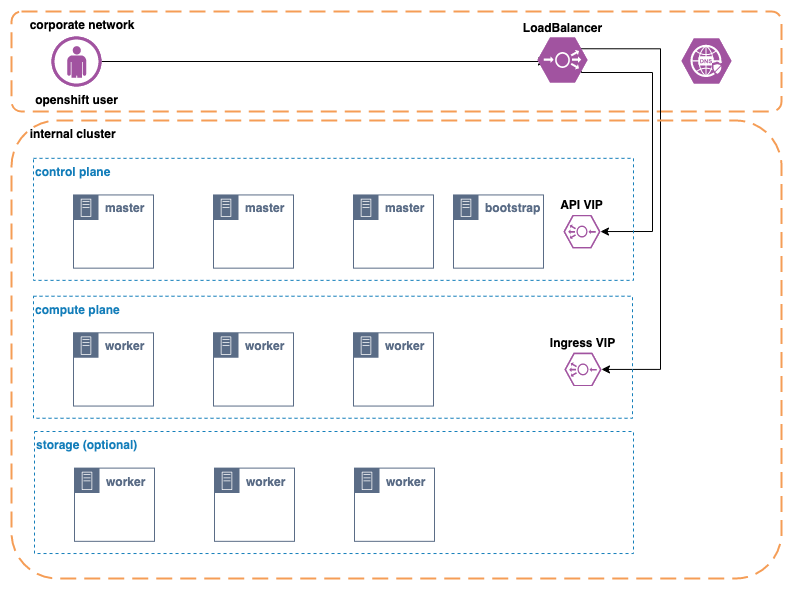
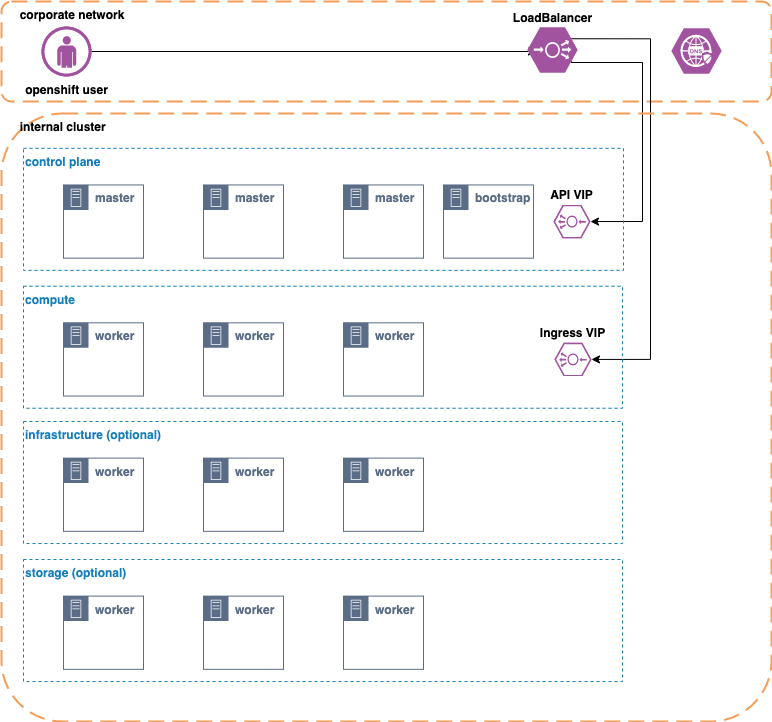
Updated resource values as per suggested min reqs. Ability to create optional infra nodes.

diff --git a/README.md b/README.md
@@ -59,20 +59,34 @@ terraform apply
 | bootstrap_ip_address             | IP Address for bootstrap node                                | string | - |
 | control_plane_ip_addresses       | List of IP addresses for your control plane nodes            | list   | - |
 | control_plane_count              | Number of control plane VMs to create                        | string | 3 |
+| control_plane_name               | VM and hostname of control plane                             | string | control_plane |
 | control_plane_memory             | Memory, in MB, to allocate to control plane VMs              | string | 16384 |
 | control_plane_num_cpus           | Number of CPUs to allocate for control plane VMs             | string | 4 |
 | control_plane_disk_size          | Disk Size, in GB, to allocate for control plane VMs          | number | 120 |
+| control_plane_extra_disk_size    | Extra Disk Size, in GB, to allocate for control plane VMs    | number | - |
 | compute_ip_addresses             | List of IP addresses for your compute nodes                  | list   | - |
-| compute_count                    | Number of compute VMs to create                              | string | 3|
+| compute_count                    | Number of compute VMs to create                              | string | 3 |
+| compute_name                     | VM and hostname of compute nodes                             | string | compute |
 | compute_memory                   | Memory, in MB, to allocate to compute VMs                    | string | 8192 |
-| compute_num_cpus                 | Number of CPUs to allocate for compute VMs                   | string | 3 |
-| compute_disk_size                | Disk Size, in GB, to allocate for compute VMs                | number | 60 |
-| storage_ip_addresses             | List of IP addresses for your storage nodes                   | list | `Empty` |
-| storage_count                    | Number of storage VMs to create                               | string | 0 |
+| compute_num_cpus                 | Number of CPUs to allocate for compute VMs                   | string | 2 |
+| compute_disk_size                | Disk Size, in GB, to allocate for compute VMs                | number | 120 |
+| compute_extra_disk_size          | Extra Disk Size, in GB, to allocate for compute VMs          | number | - |
+| infra_ip_addresses               | List of IP addresses for your infra nodes                    | list   | `Empty` |
+| infra_count                      | Number of infra VMs to create                                | string | 0 |
+| infra_name                       | VM and hostname of infra nodes                               | string | infra |
+| infra_memory                     | Memory, in MB, to allocate to infra VMs                      | string | 16384 |
+| infra_num_cpus                   | Number of CPUs to allocate for infra VMs                     | string | 4 |
+| infra_disk_size                  | Disk Size, in GB, to allocate for infra VMs                | number | 120 |
+| infra_extra_disk_size            | Extra Disk Size, in GB, to allocate for infra VMs          | number | - |
+| storage_ip_addresses             | List of IP addresses for your storage nodes                  | list | `Empty` |
+| storage_count                    | Number of storage VMs to create                              | string | 0 |
+| storage_name                     | VM and hostname of storage nodes                             | string | storage |
 | storage_memory                   | Memory, in MB to allocate to storage VMs                     | string | 65536 |
 | storage_num_cpus                 | Number of CPUs to allocate for storage VMs                   | string | 16 |
 | storage_disk_size                | Disk Size, in GB, to allocate for storage VMs                | number | 120 |
-| openshift_pull_secret            | Path to your OpenShift [pull secret](https://cloud.redhat.com/openshift/install/vsphere/user-provisioned) | string | -                |
+| storage_extra_disk_size          | Disk Size, in GB, to allocate for storage VMs                | number | - |
+| storage_additional_disk_size     | Disk Size, in GB, to allocate for storage VMs (e.g. OCS)     | number | - |
+| openshift_pull_secret            | Path to your OpenShift [pull secret](https://cloud.redhat.com/openshift/install/vsphere/user-provisioned) | string | - |
 | openshift_cluster_cidr           | CIDR for pods in the OpenShift SDN                           | string | 10.128.0.0/14 |
 | openshift_service_cidr           | CIDR for services in the OpenShift SDN                       | string | 172.30.0.0/16 |
 | openshift_host_prefix            | Controls the number of pods to allocate to each node from the `openshift_cluster_cidr` CIDR. For example, 23 would allocate 2^(32-23) 512 pods to each node. | string | 23 |
